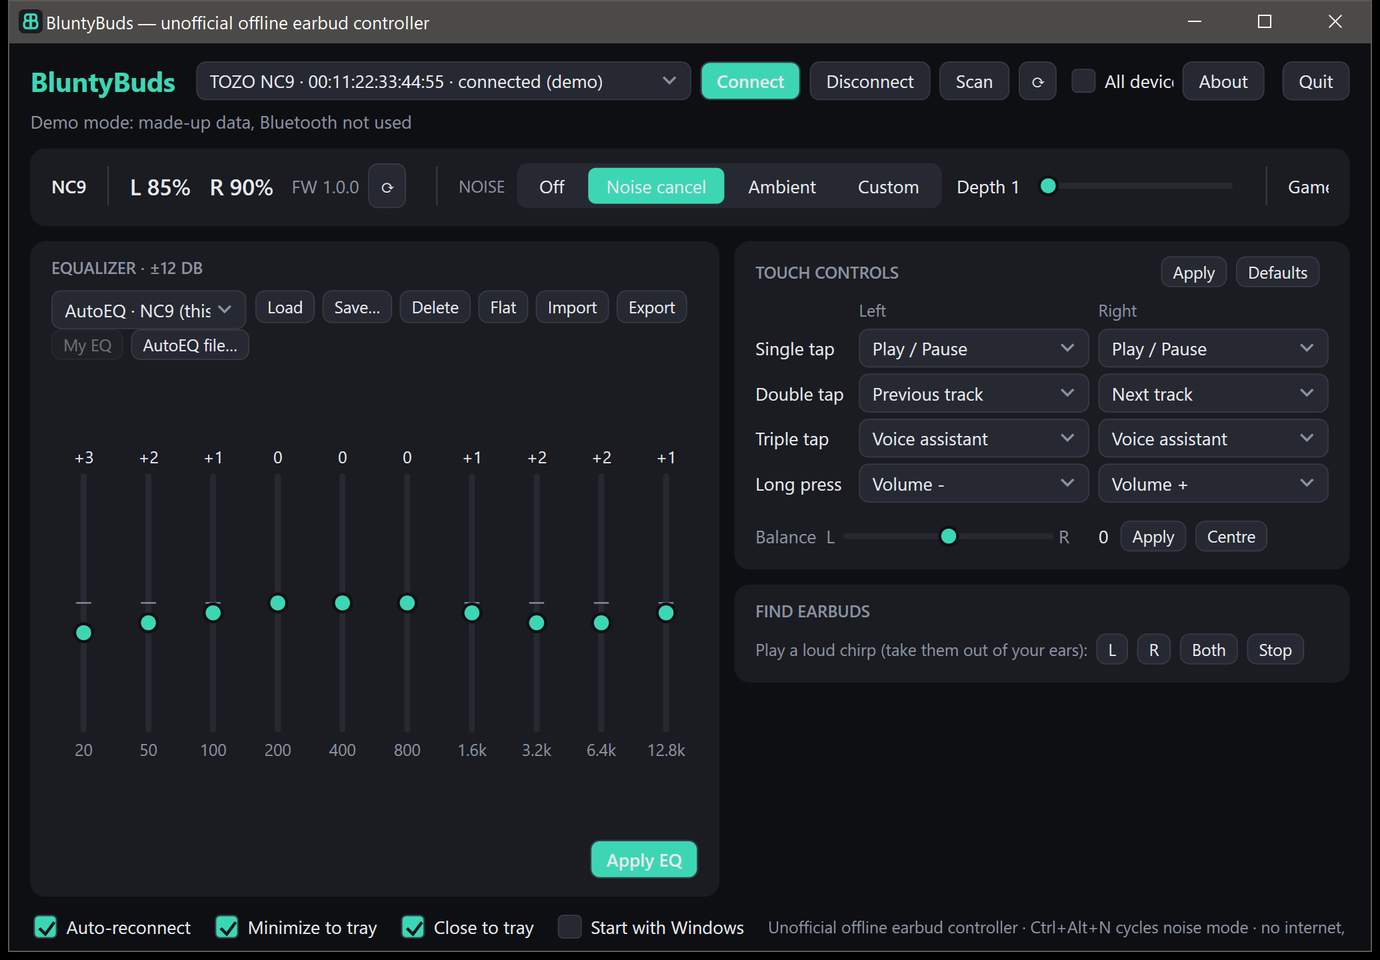
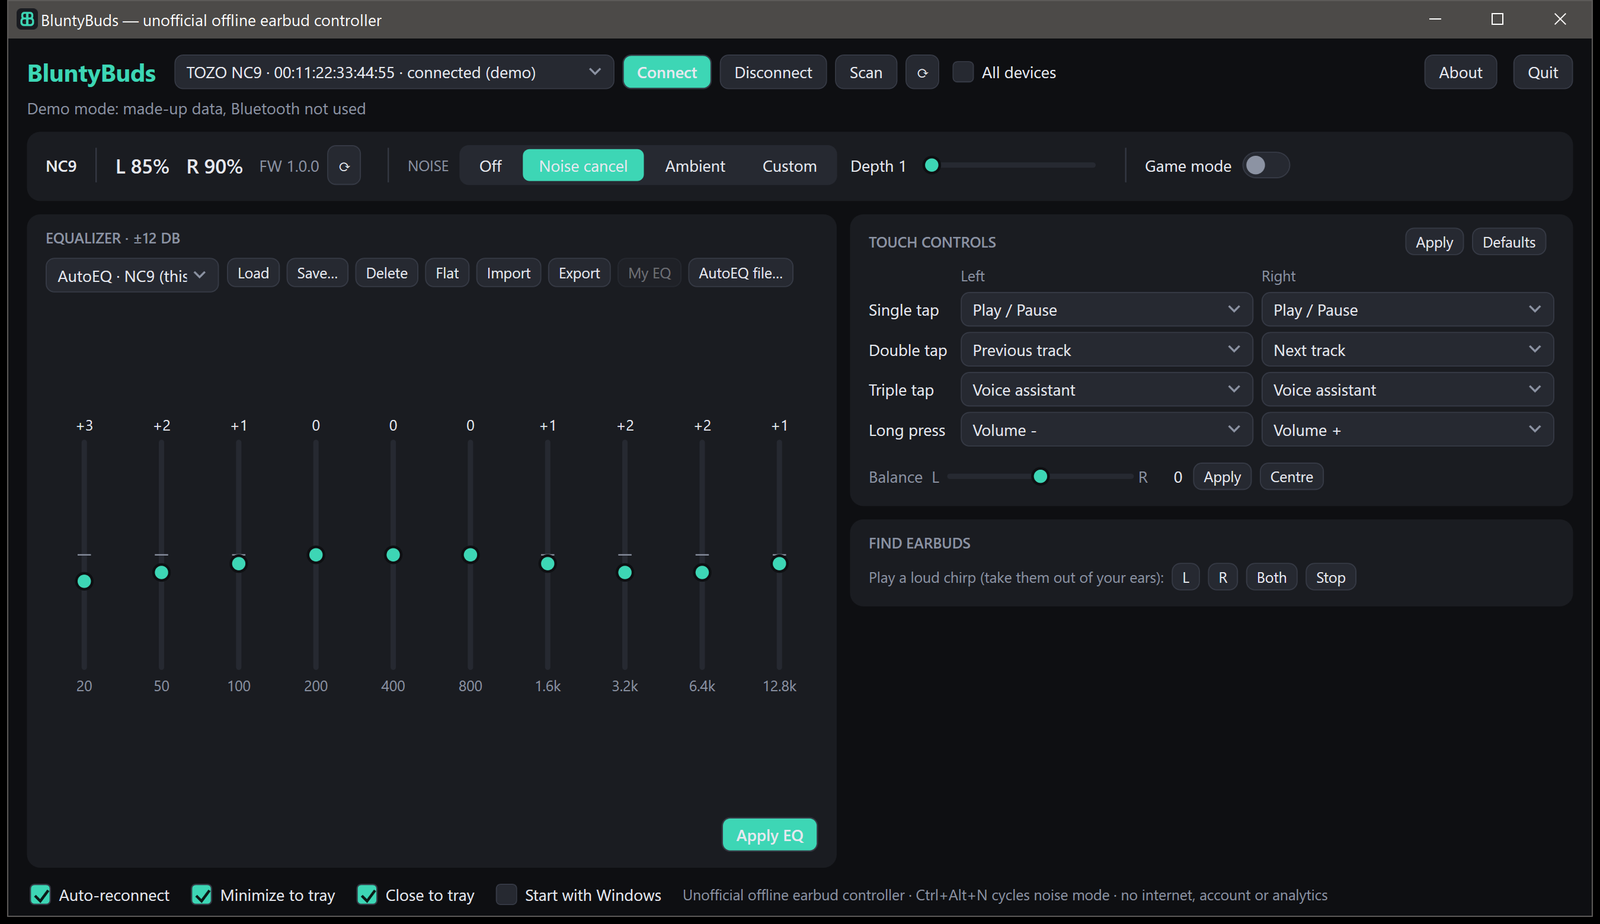
Docs: new demo screenshots (wider window, AutoEQ preset list); pitch updated for 1.4.0

diff --git a/README.md b/README.md
@@ -2,10 +2,12 @@
 
 [![CI](https://github.com/arkivx0/BluntyBuds/actions/workflows/ci.yml/badge.svg)](https://github.com/arkivx0/BluntyBuds/actions/workflows/ci.yml)
 
-Unofficial offline earbud controller for Windows and Android.
-No internet permission, no account, no analytics, no auto-update.
+Free, open-source controller for TOZO earbuds on Windows and Android: noise control, a 10-band EQ with
+built-in AutoEQ correction profiles (or import your own AutoEQ file), touch-control mapping, battery and
+find-my-earbuds. It talks to the earbuds directly over Bluetooth LE and works fully offline:
+no internet permission, no account, no analytics, no auto-update.
 
-Works with TOZO NC9 and A1; not affiliated with or endorsed by TOZO.
+Unofficial: not affiliated with or endorsed by TOZO. Tested on NC9 and A1; other models are detected and marked untested.
 
 ![BluntyBuds on Windows (demo mode, made-up data)](docs/hero.png)
 
@@ -44,7 +46,7 @@ Release signing is read from a properties file **outside** the repo:
 Without it the release APK is built unsigned.
 
 ## Screenshots
-![BluntyBuds on Windows (demo mode)](docs/screenshot.png)
+![AutoEQ profiles in the preset list (demo mode, made-up data)](docs/autoeq-presets.png)
 
 ## Model support
 
